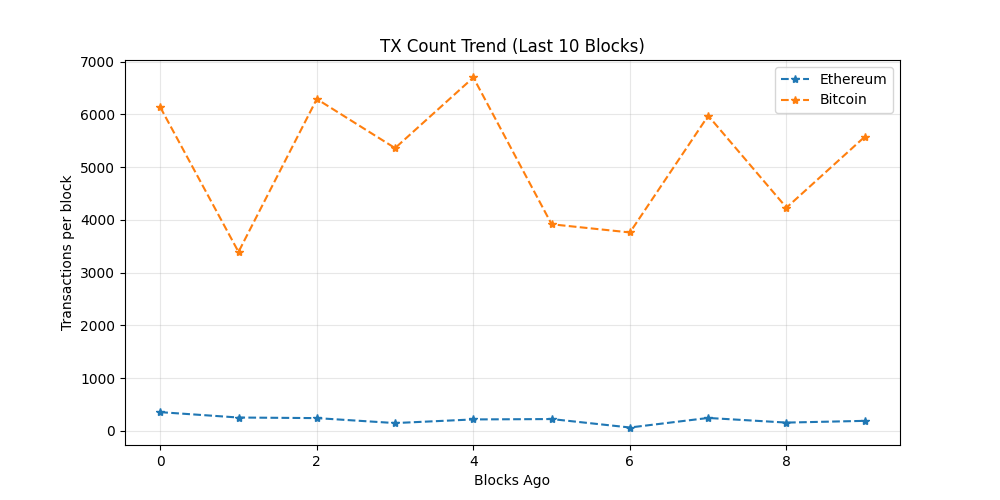
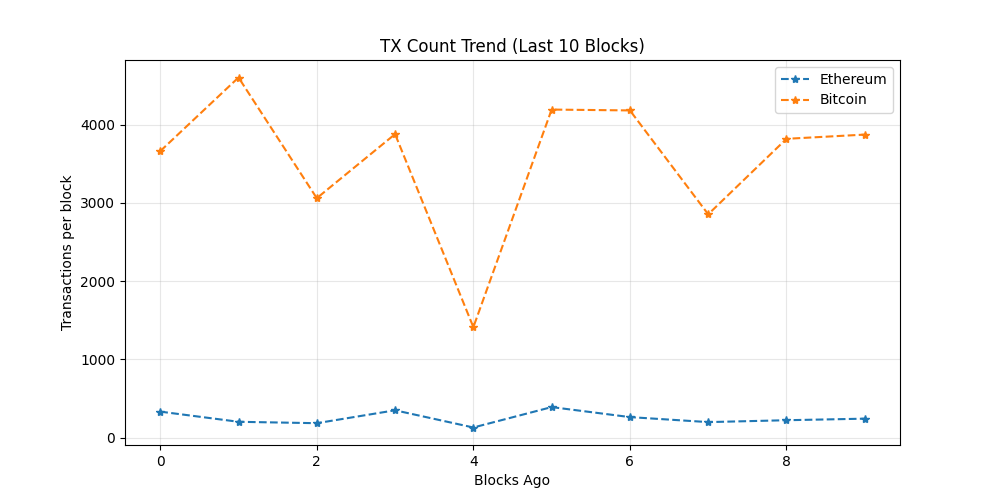
chore: update on-chain dashboard

diff --git a/README.md b/README.md
@@ -19,7 +19,7 @@ The README itself acts as the dashboard and is regenerated automatically on a 6 
 demonstrating a production-style, infrastructure-focused observability workflow rather
 than a traditional UI-driven approach.
 
-_Last updated: 2026-09-19 04:35 UTC_
+_Last updated: 2026-09-19 10:56 UTC_
 
 ## API Usage (GetBlock.io)
 - Calls used: **24**
@@ -27,8 +27,8 @@ _Last updated: 2026-09-19 04:35 UTC_
 ## Network Metrics
 | Chain | Block Height | TX Count | TPS (10 blk avg) | Block Util | Avg Fee |
 |------|-------------|----------|------------------|------------|---------|
-| Ethereum | 26009205 | 192 | 16.0 | 51.14% | 0.1 Gwei |
-| Bitcoin | 967661 | 5577 | 328.06 | 99.89% | N/A |
+| Ethereum | 26011102 | 241 | 20.08 | 55.53% | 0.2 Gwei |
+| Bitcoin | 967695 | 3873 | 14.56 | 99.38% | N/A |
 
 ## Visuals
 ### Transactions Trend
@@ -43,8 +43,11 @@ _Last updated: 2026-09-19 04:35 UTC_
 ## Whale Alerts (latest block)
 - Transaction hashes are truncated for readability.
 - Full hashes are available in `dashboards/metrics.json`
-- Bitcoin | 389.03 BTC | `f3aecdbdbf3e…`
-- Bitcoin | 628.01 BTC | `de48ba806ffa…`
+- Bitcoin | 178.0 BTC | `c97f3616e715…`
+- Bitcoin | 176.0 BTC | `5cc1cb95ff72…`
+- Bitcoin | 119.92 BTC | `9c528ea430b7…`
+- Bitcoin | 202.43 BTC | `382e6dba2cfb…`
+- Bitcoin | 2469.46 BTC | `bf4a19e584ed…`
 
 ## Run locally
 
